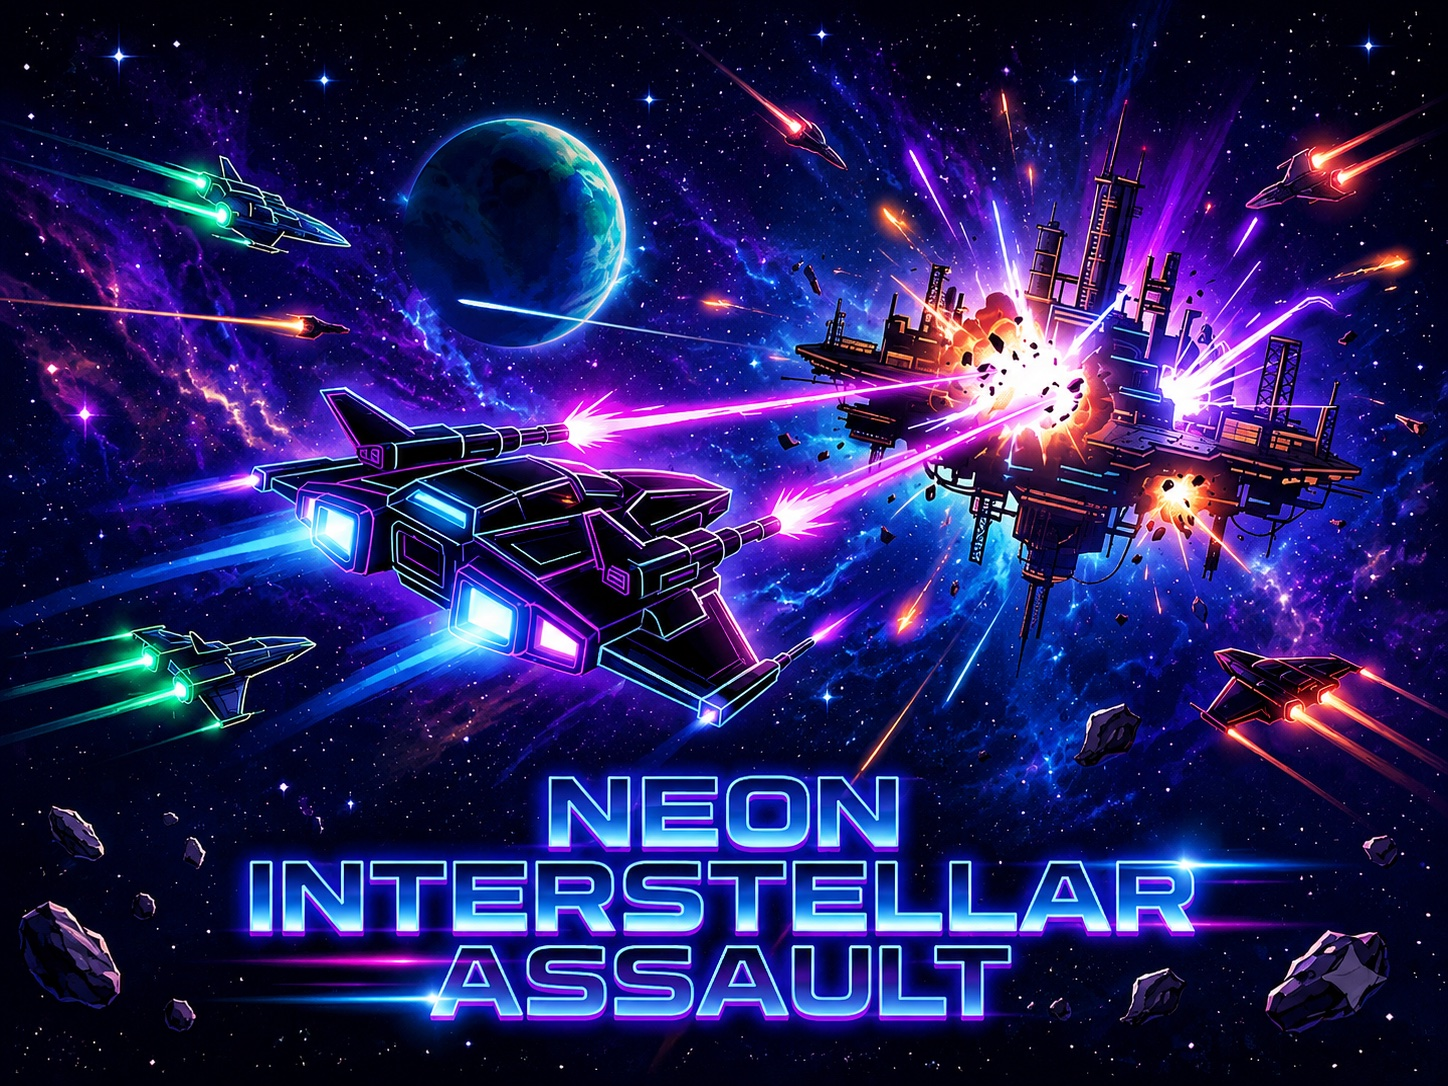
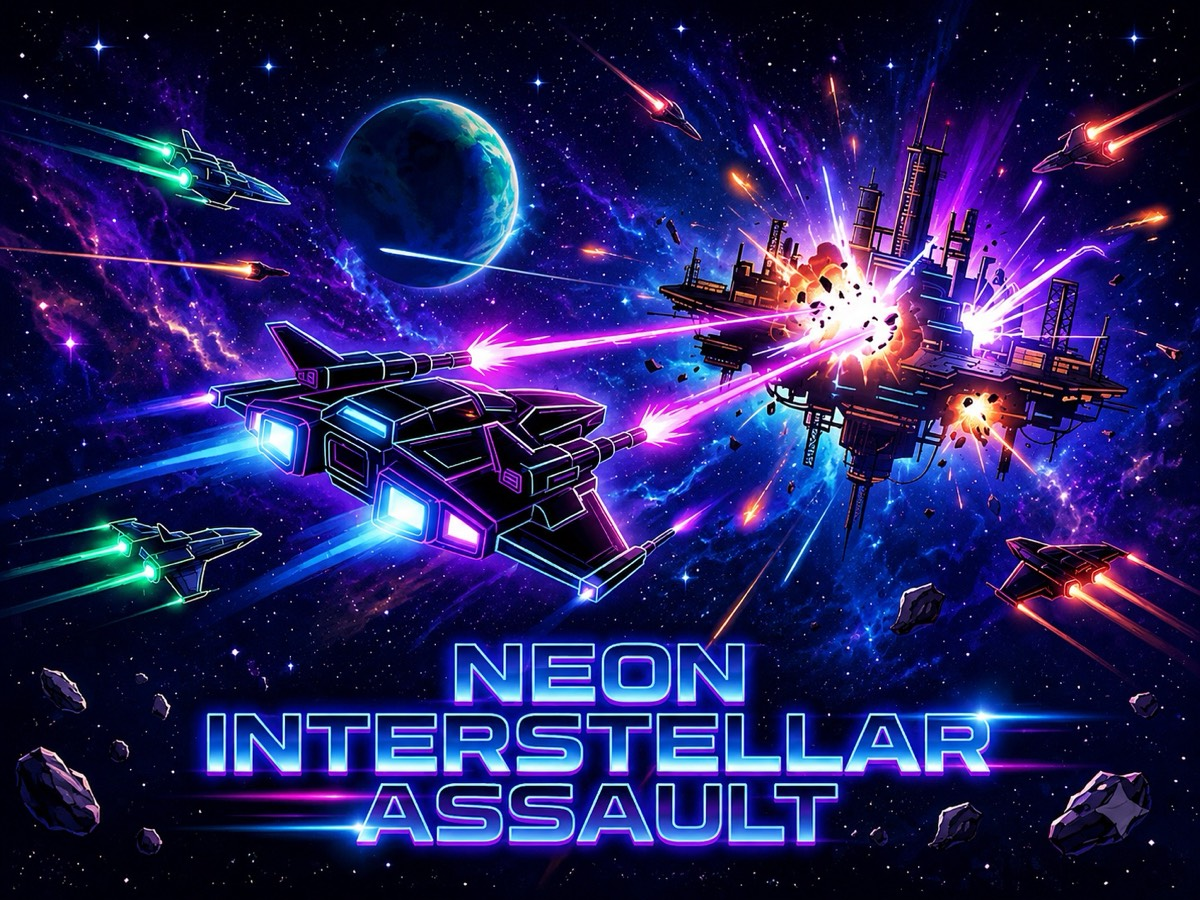
perf(covers): 全部圖片批次壓縮，21M → 14M（省 33%）
- sips 批次：max 1200px + JPEG quality 70
- 3 個直版 boxCover PNG → JPG（檔小 5-6 倍）
- works.js burger-empire/dark-cell boxCover 路徑同步改 .jpg
- 解決網頁載入慢的根因（單張縮圖 500K+ → 200K 上下）

diff --git a/works.js b/works.js
@@ -26,7 +26,7 @@ const PROJECTS = [
     id: "G02",
     title: "風味抉擇：漢堡帝國",
     cover: "./assets/games/burger-empire/cover-16x9.jpg",
-    boxCover: "./assets/games/burger-empire/cover-2x3.png",
+    boxCover: "./assets/games/burger-empire/cover-2x3.jpg",
     genre: ["模擬經營", "策略"],
     tags: ["餐廳", "資源管理", "升級", "決策"],
     platform: "Web",
@@ -100,7 +100,7 @@ const PROJECTS = [
     id: "G08",
     title: "深淵騎士",
     cover: "./assets/games/dark-cell/cover-16x9.jpg",
-    boxCover: "./assets/games/dark-cell/cover-2x3.png",
+    boxCover: "./assets/games/dark-cell/cover-2x3.jpg",
     genre: ["平台跳躍", "動作"],
     tags: ["騎士", "關卡", "技能", "挑戰"],
     platform: "Web",
